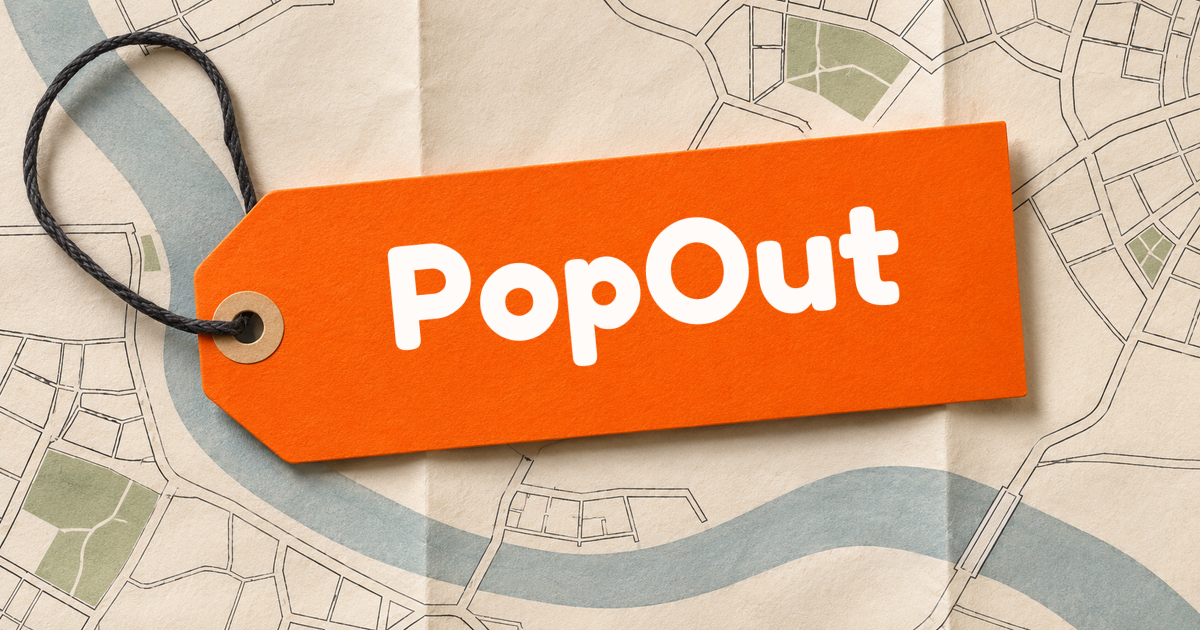
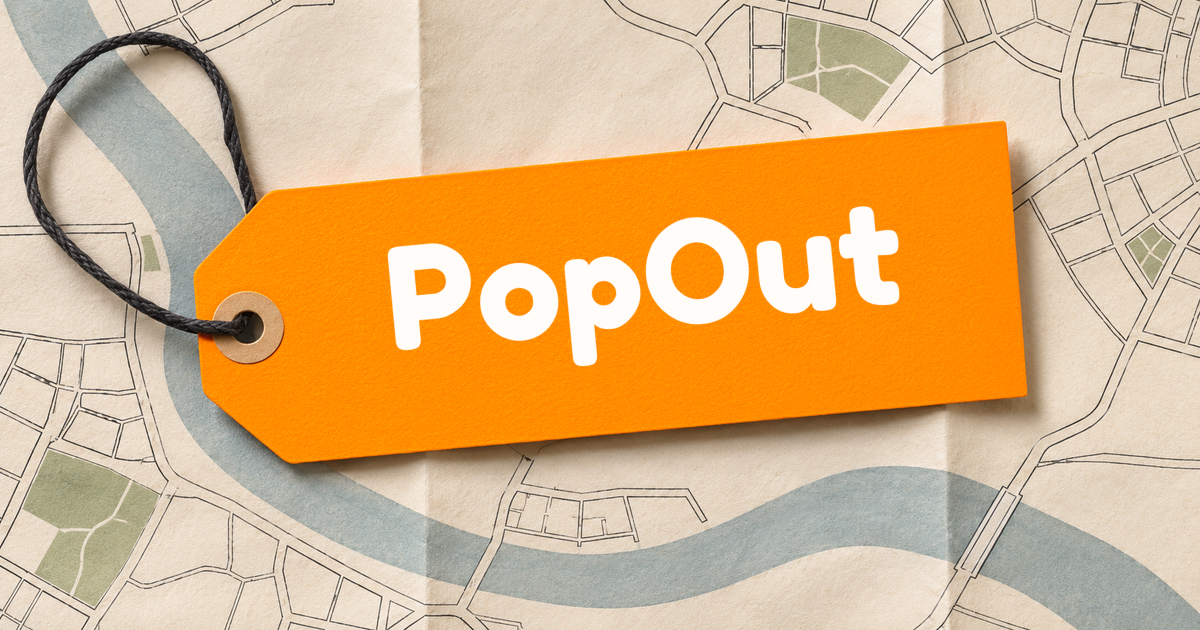
Match both store badge frames and the share card to PopOut brand orange

Changed region(s): [[0.1542, 0.181, 0.8633, 0.754]]

diff --git a/components/download-page-content.tsx b/components/download-page-content.tsx
@@ -72,15 +72,15 @@ export default function DownloadPageContent({ locale }: { locale: Locale }) {
           <div className="dl-stores">
             <a href={APP_STORE_URL}>
               <img
-                src="/images/download/badge-app-store.svg"
+                src="/images/download/badge-app-store.svg?v=5"
                 alt={copy.iphone}
-                width="192"
+                width="216"
                 height="64"
               />
             </a>
             <a href={GOOGLE_PLAY_URL}>
               <img
-                src="/images/download/badge-google-play.svg"
+                src="/images/download/badge-google-play.svg?v=5"
                 alt={copy.android}
                 width="216"
                 height="64"

diff --git a/lib/download-metadata.ts b/lib/download-metadata.ts
@@ -5,7 +5,7 @@ import { DEFAULT_LOCALE, localeFromSegment, localeSegment } from "./site-locale-
 
 export const DOWNLOAD_PATH = "/download";
 export const WECHAT_DOWNLOAD_PATH = "/download/wechat";
-export const WIDE_ART = "/images/download/popout-dm-map-tag-v4.jpg";
+export const WIDE_ART = "/images/download/popout-dm-map-tag-v5.jpg";
 export const APP_ICON = "/images/download/popout-app-icon.png";
 const ogLocale: Record<Locale, string> = {
   en: "en_AU",

diff --git a/app/download/[[...view]]/download.css b/app/download/[[...view]]/download.css
@@ -165,7 +165,8 @@ body {
   gap: 0.75rem;
 }
 .dl-stores a {
-  display: inline-flex;
+  display: block;
+  width: min(100%, 13.5rem);
   border-radius: 0.65rem;
   transition: opacity 0.15s ease;
 }
@@ -174,9 +175,8 @@ body {
 }
 .dl-stores img {
   display: block;
-  height: 4rem;
-  width: auto;
-  max-width: 100%;
+  width: 100%;
+  height: auto;
 }
 .dl-help {
   margin: 1.15rem auto 0;
